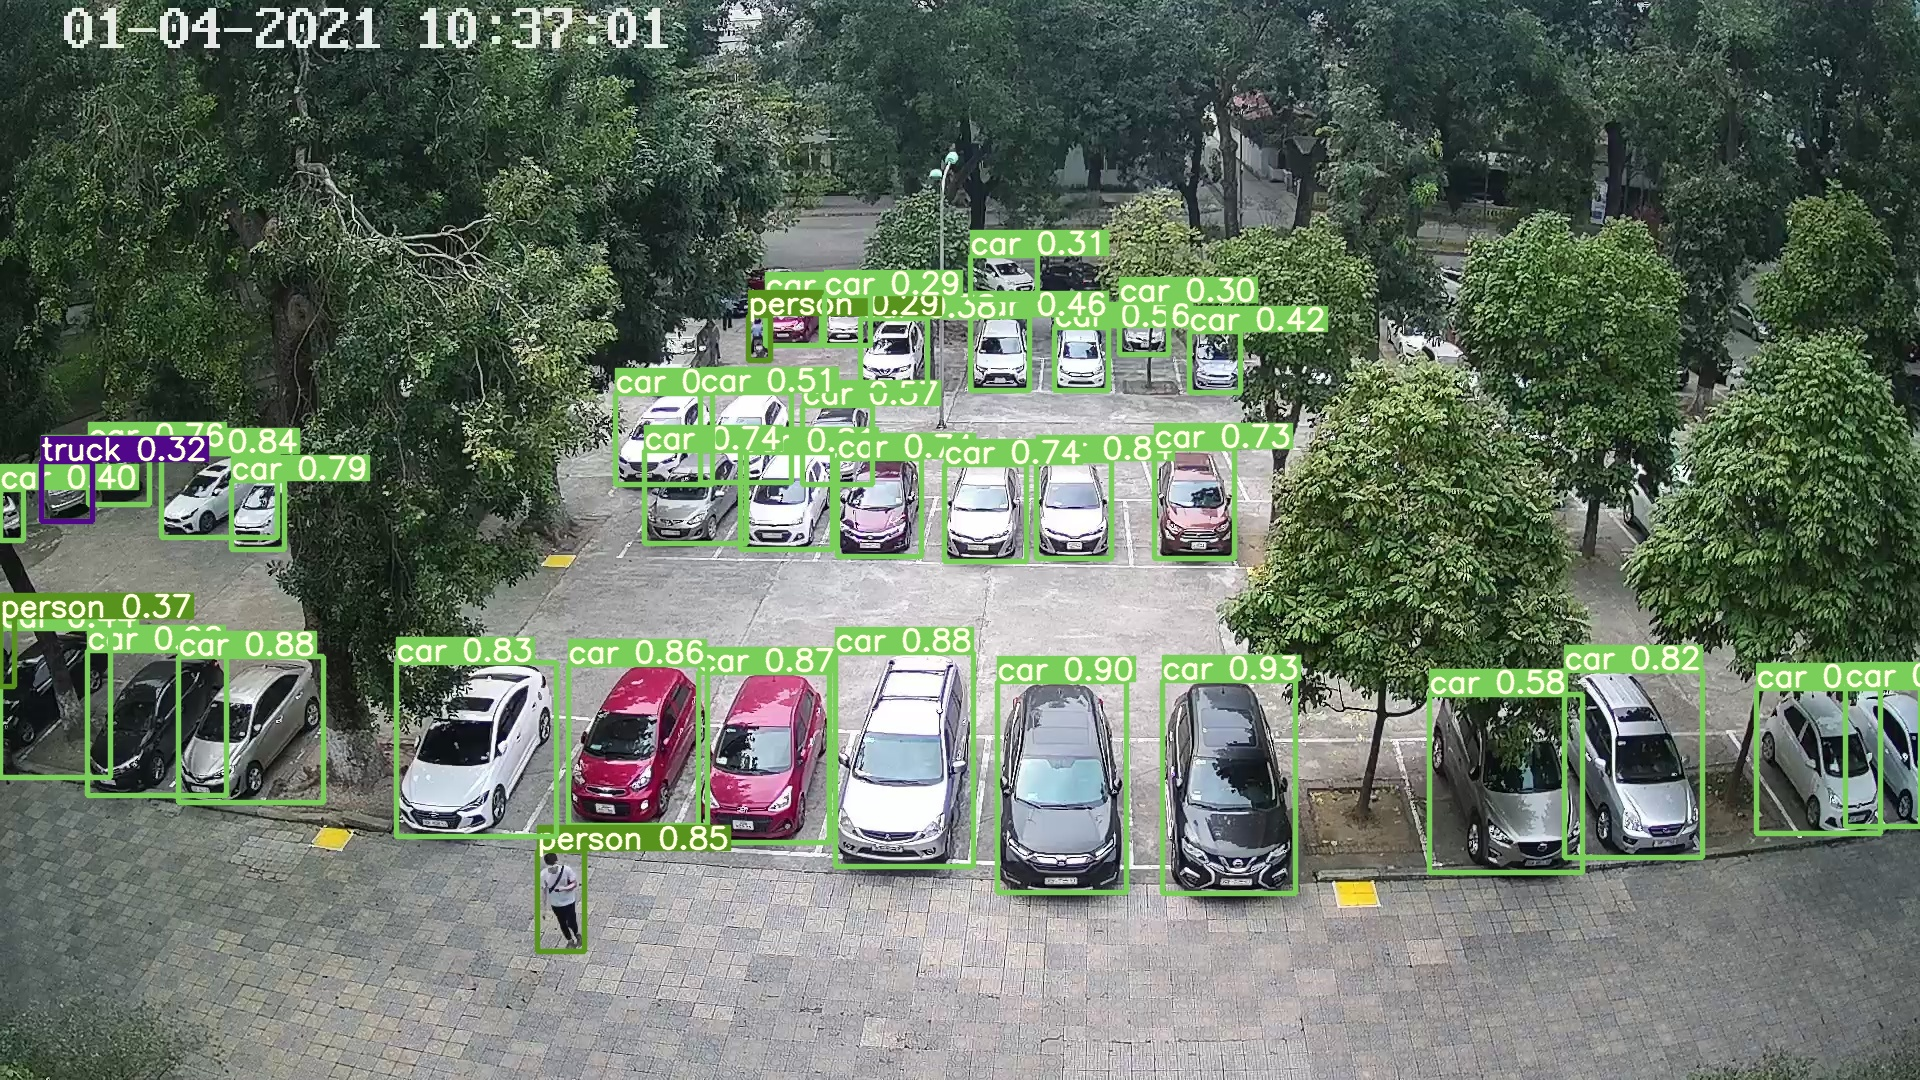
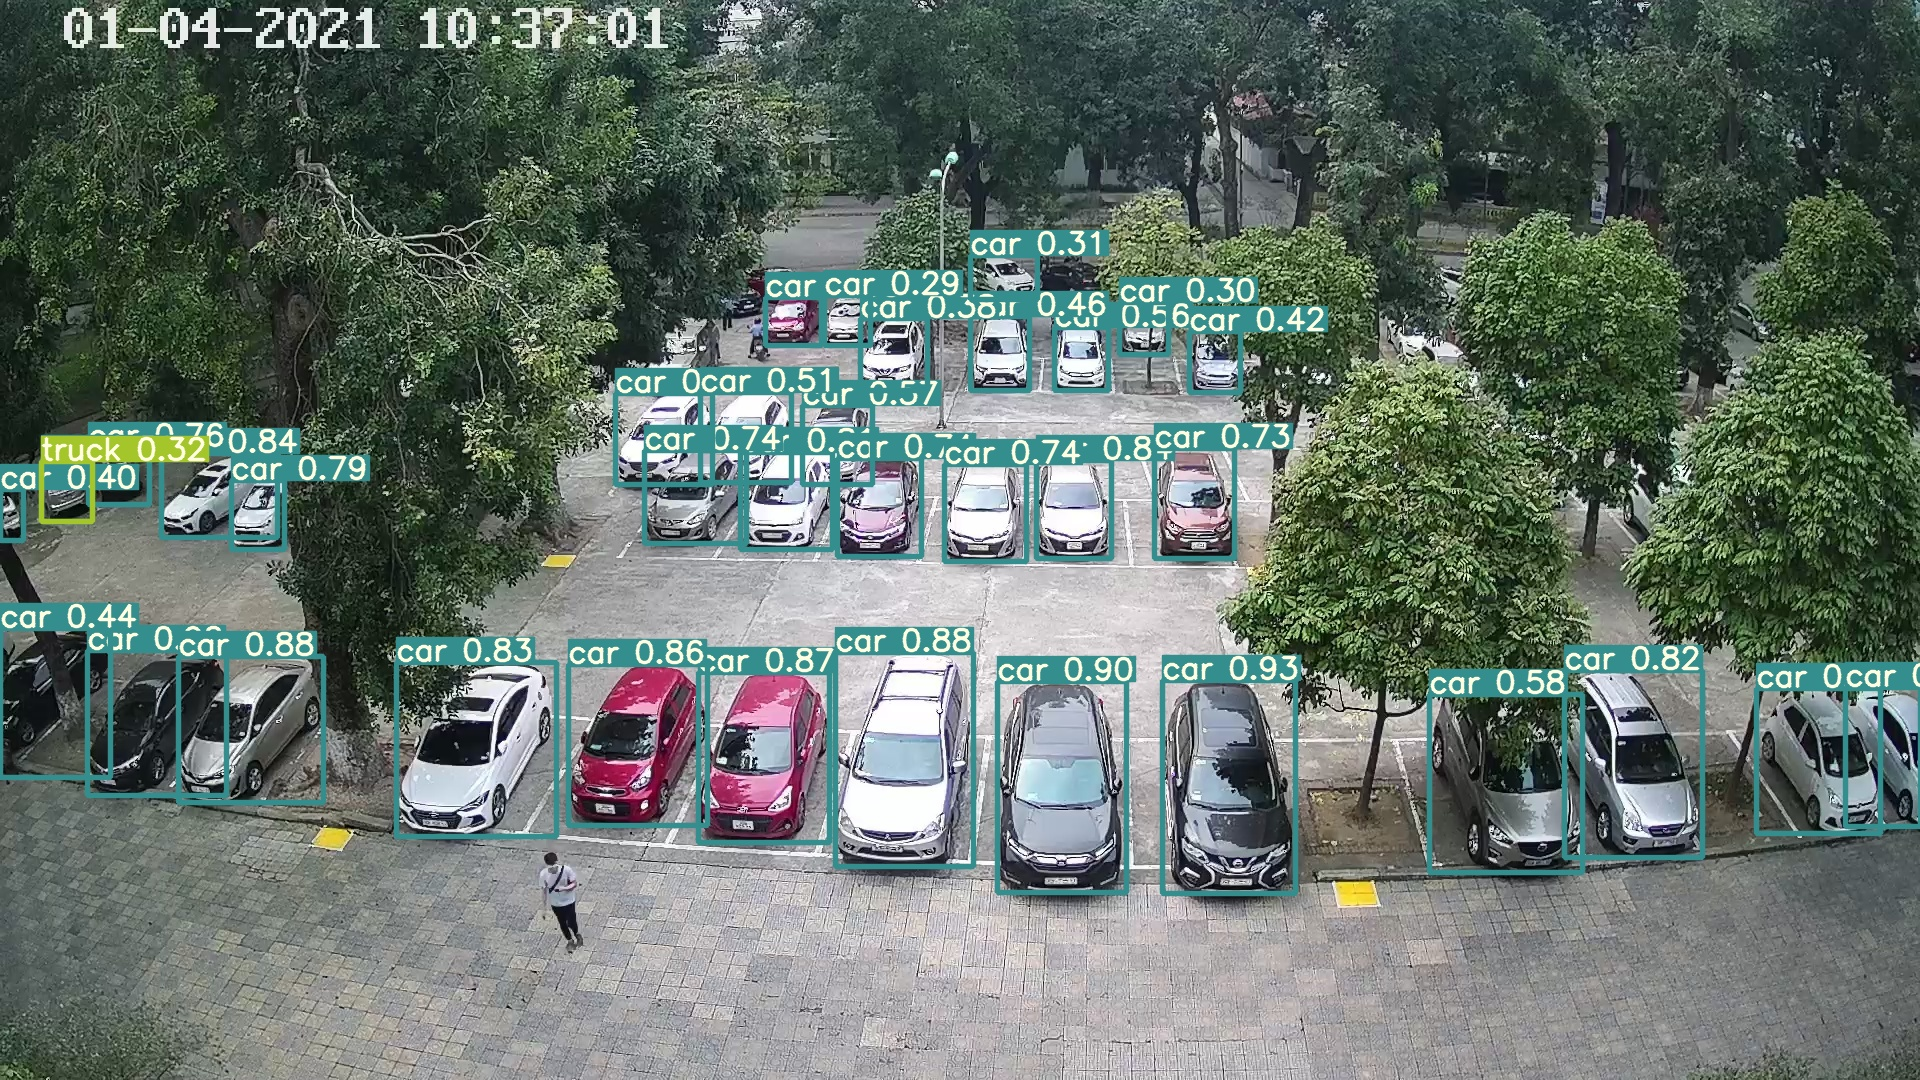
YoloR

diff --git a/face_mesh_app.py b/face_mesh_app.py
@@ -1,0 +1,184 @@
+# Modified by Augmented Startups 2021
+# Face Landmark User Interface with StreamLit
+# Watch Computer Vision Tutorials at www.augmentedstartups.info/YouTube
+import streamlit as st
+import cv2
+import numpy as np
+import tempfile
+import time
+from PIL import Image
+
+
+DEMO_VIDEO = 'demo.mp4'
+DEMO_IMAGE = 'demo.jpg'
+
+st.title('Face Mesh Application using MediaPipe')
+
+st.markdown(
+    """
+    <style>
+    [data-testid="stSidebar"][aria-expanded="true"] > div:first-child {
+        width: 350px;
+    }
+    [data-testid="stSidebar"][aria-expanded="false"] > div:first-child {
+        width: 350px;
+        margin-left: -350px;
+    }
+    </style>
+    """,
+    unsafe_allow_html=True,
+)
+
+st.sidebar.title('Face Mesh Application using MediaPipe')
+st.sidebar.subheader('Parameters')
+
+
+@st.cache()
+def image_resize(image, width=None, height=None, inter=cv2.INTER_AREA):
+    # initialize the dimensions of the image to be resized and
+    # grab the image size
+    dim = None
+    (h, w) = image.shape[:2]
+
+    # if both the width and height are None, then return the
+    # original image
+    if width is None and height is None:
+        return image
+
+    # check to see if the width is None
+    if width is None:
+        # calculate the ratio of the height and construct the
+        # dimensions
+        r = height / float(h)
+        dim = (int(w * r), height)
+
+    # otherwise, the height is None
+    else:
+        # calculate the ratio of the width and construct the
+        # dimensions
+        r = width / float(w)
+        dim = (width, int(h * r))
+
+    # resize the image
+    resized = cv2.resize(image, dim, interpolation=inter)
+
+    # return the resized image
+    return resized
+
+
+app_mode = st.sidebar.selectbox('Choose the App mode',
+                                ['About App', 'Run on Image', 'Run on Video']
+                                )
+
+if app_mode == 'About App':
+    st.markdown(
+        'In this application we are using **MediaPipe** for creating a Face Mesh. **StreamLit** is to create the Web Graphical User Interface (GUI) ')
+    st.markdown(
+        """
+        <style>
+        [data-testid="stSidebar"][aria-expanded="true"] > div:first-child {
+            width: 400px;
+        }
+        [data-testid="stSidebar"][aria-expanded="false"] > div:first-child {
+            width: 400px;
+            margin-left: -400px;
+        }
+        </style>
+        """,
+        unsafe_allow_html=True,
+    )
+    st.video('https://www.youtube.com/watch?v=FMaNNXgB_5c&ab_channel=AugmentedStartups')
+
+    st.markdown('''
+          # About Me \n 
+            Hey this is ** Ritesh Kanjee ** from **Augmented Startups**. \n
+           
+            If you are interested in building more Computer Vision apps like this one then visit the **Vision Store** at
+            www.augmentedstartups.info/visionstore \n
+            
+            Also check us out on Social Media
+            - [YouTube](https://augmentedstartups.info/YouTube)
+            - [LinkedIn](https://augmentedstartups.info/LinkedIn)
+            - [Facebook](https://augmentedstartups.info/Facebook)
+            - [Discord](https://augmentedstartups.info/Discord)
+        
+            If you are feeling generous you can buy me a **cup of  coffee ** from [HERE](https://augmentedstartups.info/ByMeACoffee)
+             
+            ''')
+elif app_mode == 'Run on Video':
+
+    st.set_option('deprecation.showfileUploaderEncoding', False)
+
+    use_webcam = st.sidebar.button('Use Webcam')
+    record = st.sidebar.checkbox("Record Video")
+    if record:
+        st.checkbox("Recording", value=True)
+
+    st.sidebar.markdown('---')
+    st.markdown(
+        """
+        <style>
+        [data-testid="stSidebar"][aria-expanded="true"] > div:first-child {
+            width: 400px;
+        }
+        [data-testid="stSidebar"][aria-expanded="false"] > div:first-child {
+            width: 400px;
+            margin-left: -400px;
+        }
+        </style>
+        """,
+        unsafe_allow_html=True,
+    )
+    # max faces
+
+    st.markdown(' ## Output')
+
+    stframe = st.empty()
+    video_file_buffer = st.sidebar.file_uploader("Upload a video", type=["mp4", "mov", 'avi', 'asf', 'm4v'])
+    tfflie = tempfile.NamedTemporaryFile(delete=False)
+
+    if not video_file_buffer:
+        pass
+
+    else:
+        tfflie.write(video_file_buffer.read())
+        vid = cv2.VideoCapture(tfflie.name)
+
+    # codec = cv2.VideoWriter_fourcc(*FLAGS.output_format)
+
+    fps = 0
+    i = 0
+
+    kpi1, kpi2, kpi3 = st.columns(3)
+
+    with kpi1:
+        st.markdown("**FrameRate**")
+        kpi1_text = st.markdown("0")
+
+    with kpi2:
+        st.markdown("**Detected Faces**")
+        kpi2_text = st.markdown("0")
+
+    with kpi3:
+        st.markdown("**Image Width**")
+        kpi3_text = st.markdown("0")
+
+    st.markdown("<hr/>", unsafe_allow_html=True)
+
+    prevTime = 0
+
+    while vid.isOpened():
+        i += 1
+        ret, frame = vid.read()
+        if not ret:
+            break
+
+        currTime = time.time()
+        fps = 1 / (currTime - prevTime)
+        prevTime = currTime
+        frame = cv2.resize(frame, (0, 0), fx=0.5, fy=0.5)
+        # frame = image_resize(image=frame, width=640)
+        stframe.image(frame, channels='BGR', use_column_width=True)
+
+
+

diff --git a/main.py b/main.py
@@ -1,0 +1,79 @@
+import streamlit as st
+from detect_for_st import *
+from PIL import Image
+import numpy as np
+import cv2
+import os
+import tempfile
+import time
+
+with open("data/coco.names", "r") as f:
+    classes_list = [line.strip() for line in f.readlines()]
+
+# Title
+st.title("Object Detection use YoloR")
+st.sidebar.title("Settings")
+
+# Confidence
+confidence = st.sidebar.slider("Confidence", min_value=0.1, max_value=1.0, value=0.4)
+st.sidebar.markdown("________________________________________________________________")
+
+
+# Custom classes
+custom_classes = st.sidebar.checkbox("Use custom classes")
+
+# Custom Classes
+if custom_classes:
+    allow_class = []
+    class_list = st.sidebar.multiselect("Select custom classes", classes_list, default="car")
+    for cl in class_list:
+        allow_class.append(classes_list.index(cl))
+else:
+    allow_class = [2]    # car
+
+
+
+# Choose type files
+file = st.sidebar.radio("Choose type file", ["Image", "Video"])
+
+if file == "Image":
+    file_upload = st.sidebar.file_uploader("Upload an image", type=["jpg", "png", "jpeg"])
+    if file_upload is not None:
+        image = Image.open(file_upload)
+        img_array = np.array(image, dtype="uint8")
+        st.image(img_array, use_column_width=True)
+
+
+else:
+    file_upload = st.sidebar.file_uploader("Upload a video", type=["mp4", "mov", "avi", "m4v", "webm"])
+    stframe = st.empty()
+    tffile = tempfile.NamedTemporaryFile(delete=False)
+    st.markdown("**Output**")
+    if file_upload is not None:
+        tffile.write(file_upload.read())
+        cap = cv2.VideoCapture(tffile.name)
+        pause = st.button("Pause")
+    # Output
+        kp1, kp2 = st.columns(2)
+        with kp1:
+            st.markdown("**Frame Rate**")
+            kp1_text = st.markdown("0")
+
+        with kp2:
+            st.markdown("**Objects count**")
+            kp2_text = st.markdown("0")
+
+        while cap.isOpened():
+            s = time.time()
+            ret, frame = cap.read()
+            if not ret:
+                break
+            with torch.no_grad():
+                frame = detect(frame, allow_class=allow_class, conf_thres=0.4)
+            frame = cv2.resize(frame, dsize=None, fx=0.5, fy=0.5)
+            stframe.image(frame, channels="BGR", use_column_width=True)
+            fps = round(1 / (time.time() - s))
+            kp1_text.write(str(fps))
+            while pause is False:
+
+

diff --git a/detect_for_st.py b/detect_for_st.py
@@ -19,7 +19,7 @@ out, source, weights, view_img, save_txt, imgsz, cfg, names = \
     opt.output, opt.source, opt.weights, opt.view_img, opt.save_txt, opt.img_size, opt.cfg, opt.names
 
 # Initialize
-device = select_device(opt.device)
+device = select_device("cpu")
 half = device.type != 'cpu'  # half precision only supported on CUDA
 
 # Load model
@@ -41,7 +41,8 @@ colors = (0, 0, 255)
 # _ = model(img.half() if half else img) if device.type != 'cpu' else None  # run once
 
 
-def detect(img0):
+def detect(frame, allow_class, conf_thres):
+    img0 = frame
     H, W, _ = img0.shape
     img = letterbox(img0, new_shape=imgsz, auto_size=64)[0]
 
@@ -58,7 +59,7 @@ def detect(img0):
     pred = model(img, augment=opt.augment)[0]
 
     # Apply NMS
-    pred = non_max_suppression(pred, opt.conf_thres, opt.iou_thres, classes=opt.classes, agnostic=opt.agnostic_nms)
+    pred = non_max_suppression(pred, conf_thres, opt.iou_thres, classes=allow_class, agnostic=opt.agnostic_nms)
 
     # Process detections
     for i, det in enumerate(pred):  # detections per image
@@ -75,17 +76,16 @@ def detect(img0):
                 x1, y1, x2, y2 = int(xyxy[0]), int(xyxy[1]), int(xyxy[2]), int(xyxy[3])
                 cv2.rectangle(im0, (x1, y1), (x2, y2), colors, 2)
                 cv2.putText(im0, label, (x1, y1 - 10), cv2.FONT_HERSHEY_COMPLEX, 0.7, (0, 0, 255), 2)
-
-        try:
-            return im0
-        except:
-            return img0
+    try:
+        return im0
+    except:
+        return img0
 
 
 if __name__ == '__main__':
-    path = r"inference/images/C9.jpg"
-    img0 = cv2.imread(path)
+    img = cv2.imread("inference/images/C9.jpg")
+
     with torch.no_grad():
-        img = detect(img0)
+        img = detect(img, [2, 5, 7], 0.25)
         cv2.imshow("Image", img)
         cv2.waitKey()

diff --git a/detect.py b/detect.py
@@ -164,7 +164,7 @@ if __name__ == '__main__':
     parser.add_argument('--weights', nargs='+', type=str, default='yolor_p6.pt', help='model.pt path(s)')
     parser.add_argument('--source', type=str, default='inference/images', help='source')  # file/folder, 0 for webcam
     parser.add_argument('--output', type=str, default='inference/output', help='output folder')  # output folder
-    parser.add_argument('--img-size', type=int, default=1280, help='inference size (pixels)')
+    parser.add_argument('--img-size', type=int, default=1920, help='inference size (pixels)')
     parser.add_argument('--conf-thres', type=float, default=0.3, help='object confidence threshold')
     parser.add_argument('--iou-thres', type=float, default=0.5, help='IOU threshold for NMS')
     parser.add_argument('--device', default='', help='cuda device, i.e. 0 or 0,1,2,3 or cpu')

diff --git a/opt.py b/opt.py
@@ -1,15 +1,15 @@
-agnostic_nms=False
-augment=False
-cfg='cfg/yolor_p6.cfg'
-classes=[2, 5, 7]
-conf_thres=0.3
-device='0'
-img_size=1280
-iou_thres=0.5
-names='data/coco.names'
-output='inference/output'
-save_txt=False
-source='inference/images/C9.jpg'
-update=False
-view_img=False
-weights=['yolor_p6.pt']
+agnostic_nms = False
+augment = False
+cfg = 'cfg/yolor_p6.cfg'
+classes = [2, 5, 7]
+conf_thres = 0.25
+device = '0'
+img_size = 1280
+iou_thres = 0.5
+names = 'data/coco.names'
+output = 'inference/output'
+save_txt = False
+source = 'inference/images/C9.jpg'
+update = False
+view_img = False
+weights = ['yolor_p6.pt']
